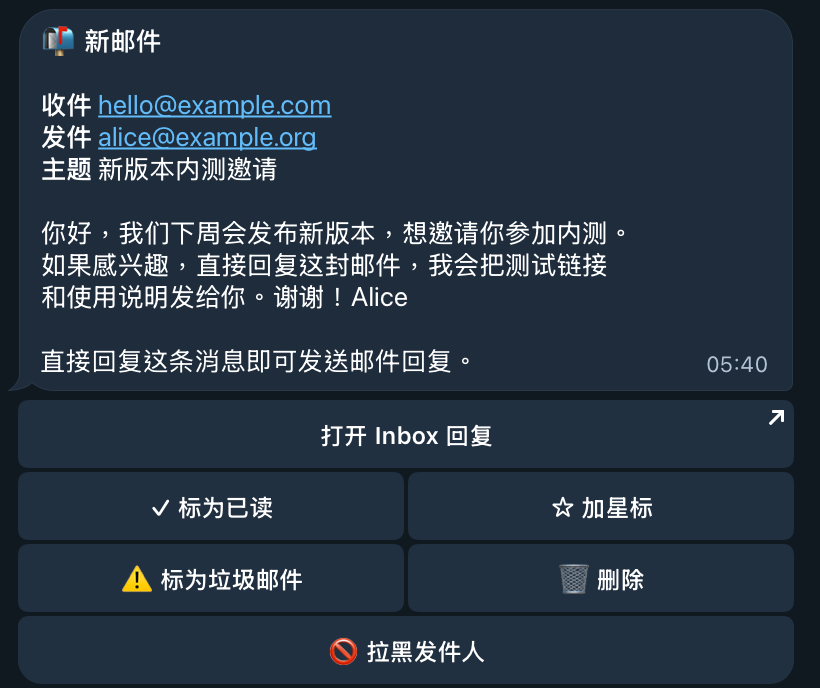
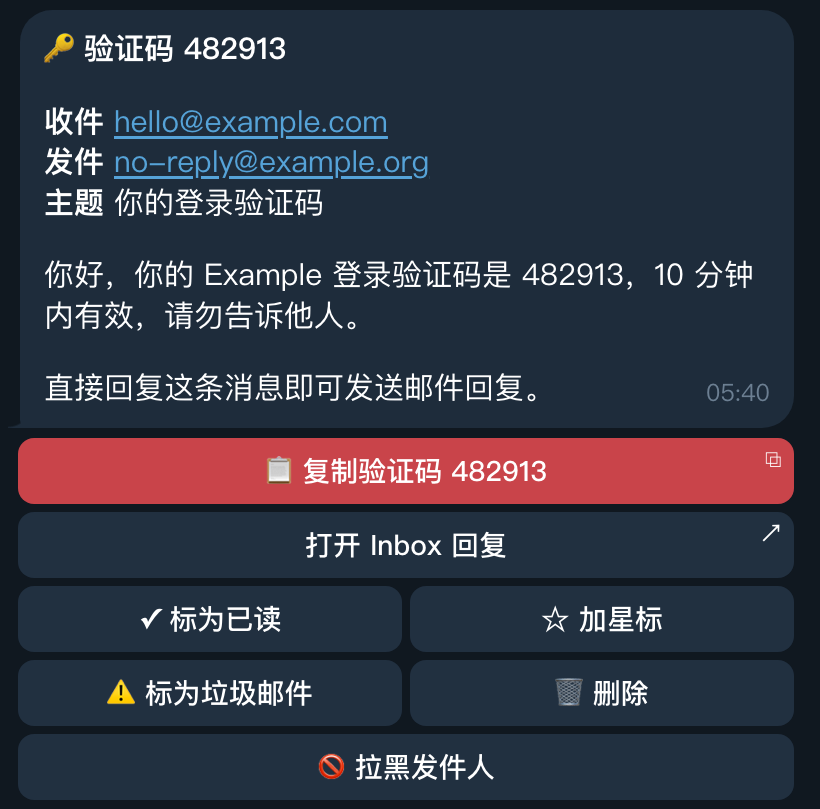
README: update the Telegram screenshot for verification-code alerts

diff --git a/README.md b/README.md
@@ -19,7 +19,7 @@
 - **在 Telegram 里直接处理邮件**：通知下方的按钮可以直接标为已读/未读、加星标、标为垃圾邮件、拉黑发件人，这些操作都能撤销；点“删除”会把邮件移到废纸篓，同时清掉这条通知；验证码邮件会把验证码放在通知第一行，并提供一键复制按钮；直接回复通知消息，就会以对应邮箱发出邮件回复。常用操作不用再登录网页后台
 
 <p align="center">
-  <img src="docs/telegram-alert.png" width="410" alt="Telegram 新邮件通知：显示收件邮箱、发件人、主题和正文预览，下方是打开 Inbox 回复、标为已读、加星标、标为垃圾邮件、删除、拉黑发件人按钮">
+  <img src="docs/telegram-alert.png" width="410" alt="Telegram 验证码邮件通知：第一行加粗显示验证码，下面是收件邮箱、发件人、主题和正文预览；按钮区第一行是红色的复制验证码按钮，之后是打开 Inbox 回复、标为已读、加星标、标为垃圾邮件、删除、拉黑发件人">
 </p>
 
 ## 其他功能
